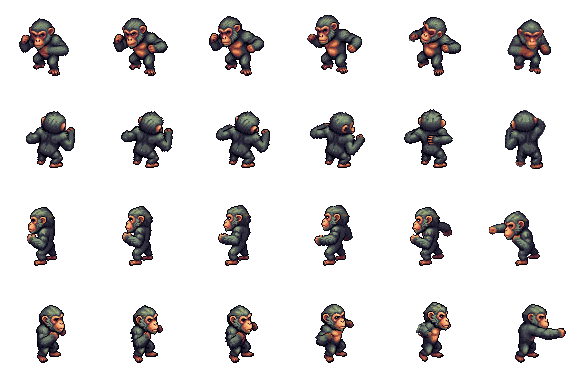
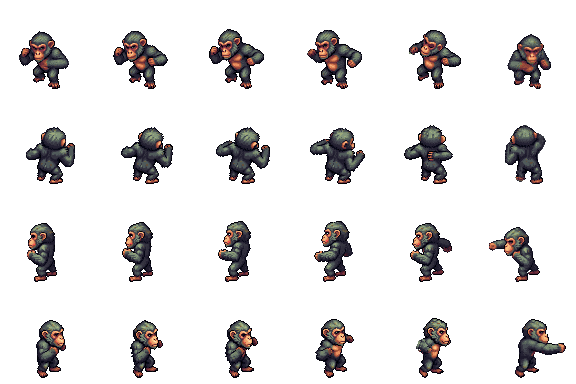
Align César attack frames to ground

diff --git a/docs/CESAR-DAWN.md b/docs/CESAR-DAWN.md
@@ -3,3 +3,5 @@
 Os encontros comuns de todos os setores de Dawn agora usam somente **César, nível 5**. O encontro final também usa César, preservando a regra atual de liberação e recompensa do chefe. Os antigos corsários, carapaças, sentinelas e o Capitão da Caldeira deixam de surgir em Dawn; seus tipos permanecem nos outros mapas que os utilizam.
 
 A arte vem do personagem existente no PixelLab (`da9c0817-8ea5-425f-a164-7e2362bd46bc`). As animações existentes de corrida e golpe foram apenas alinhadas em folhas transparentes, sem gerar novos pixels.
+
+Os quadros de ataque foram alinhados pelo contato dos pés com o solo da pose idle em cada direção, evitando que César flutue durante o soco.
